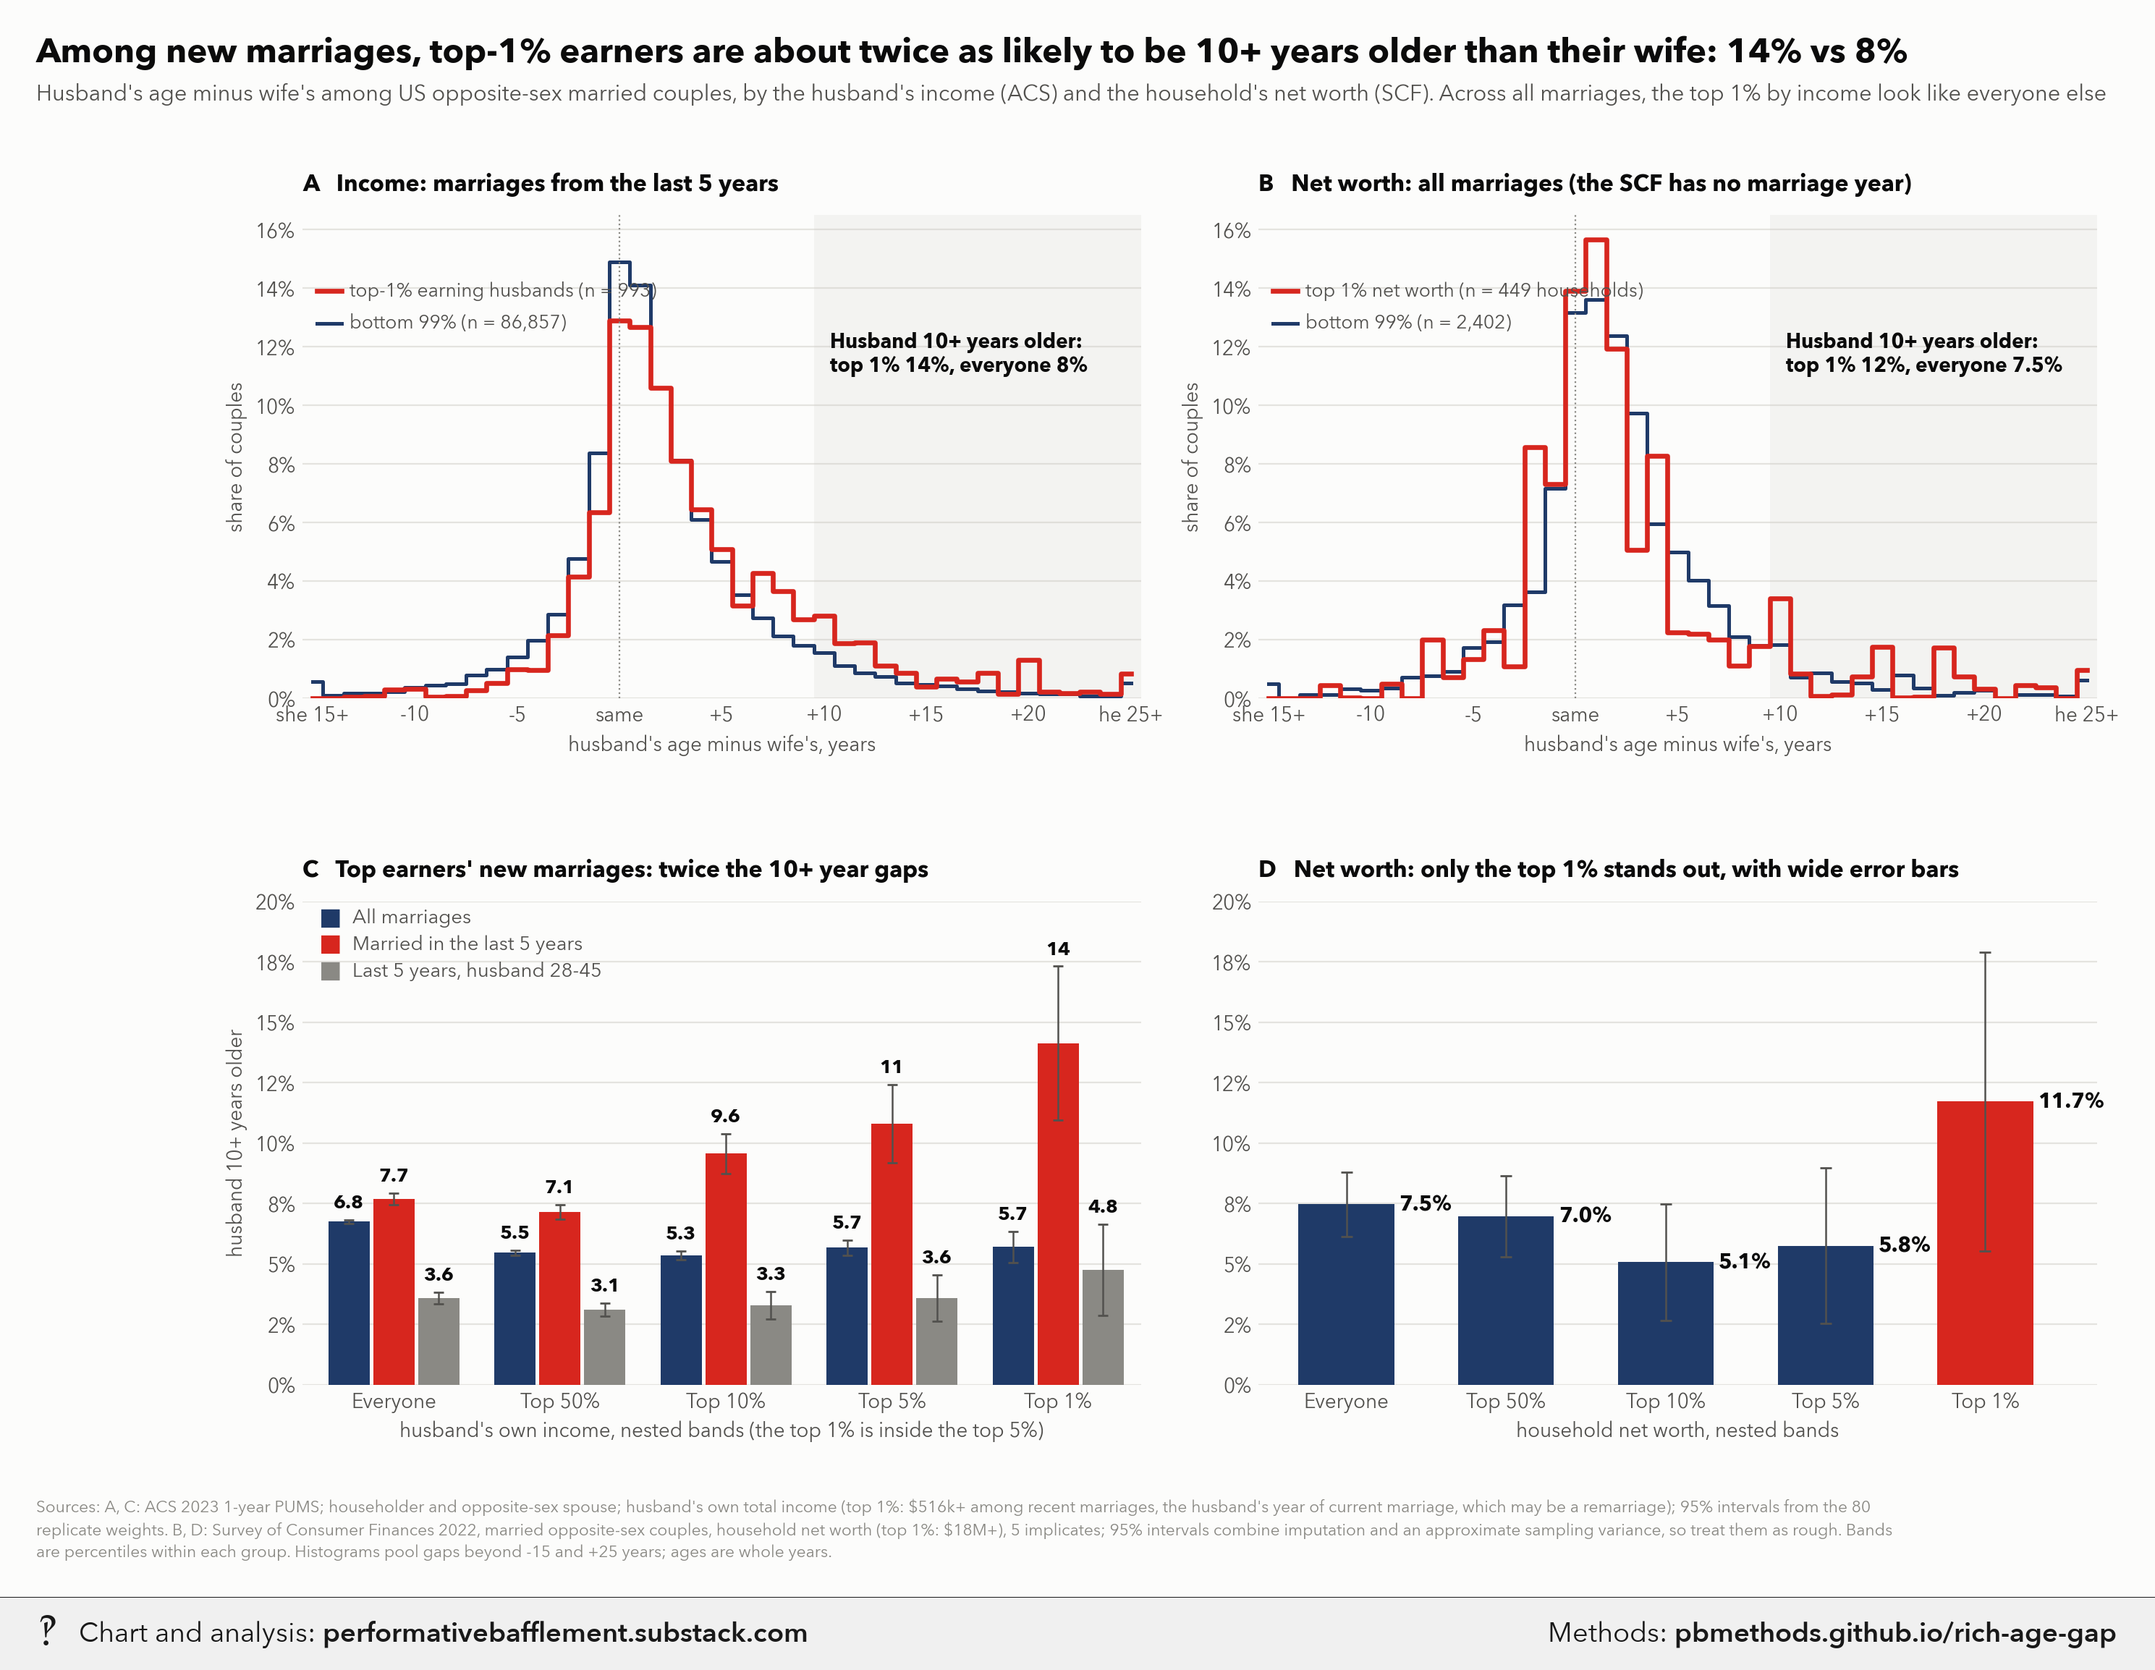
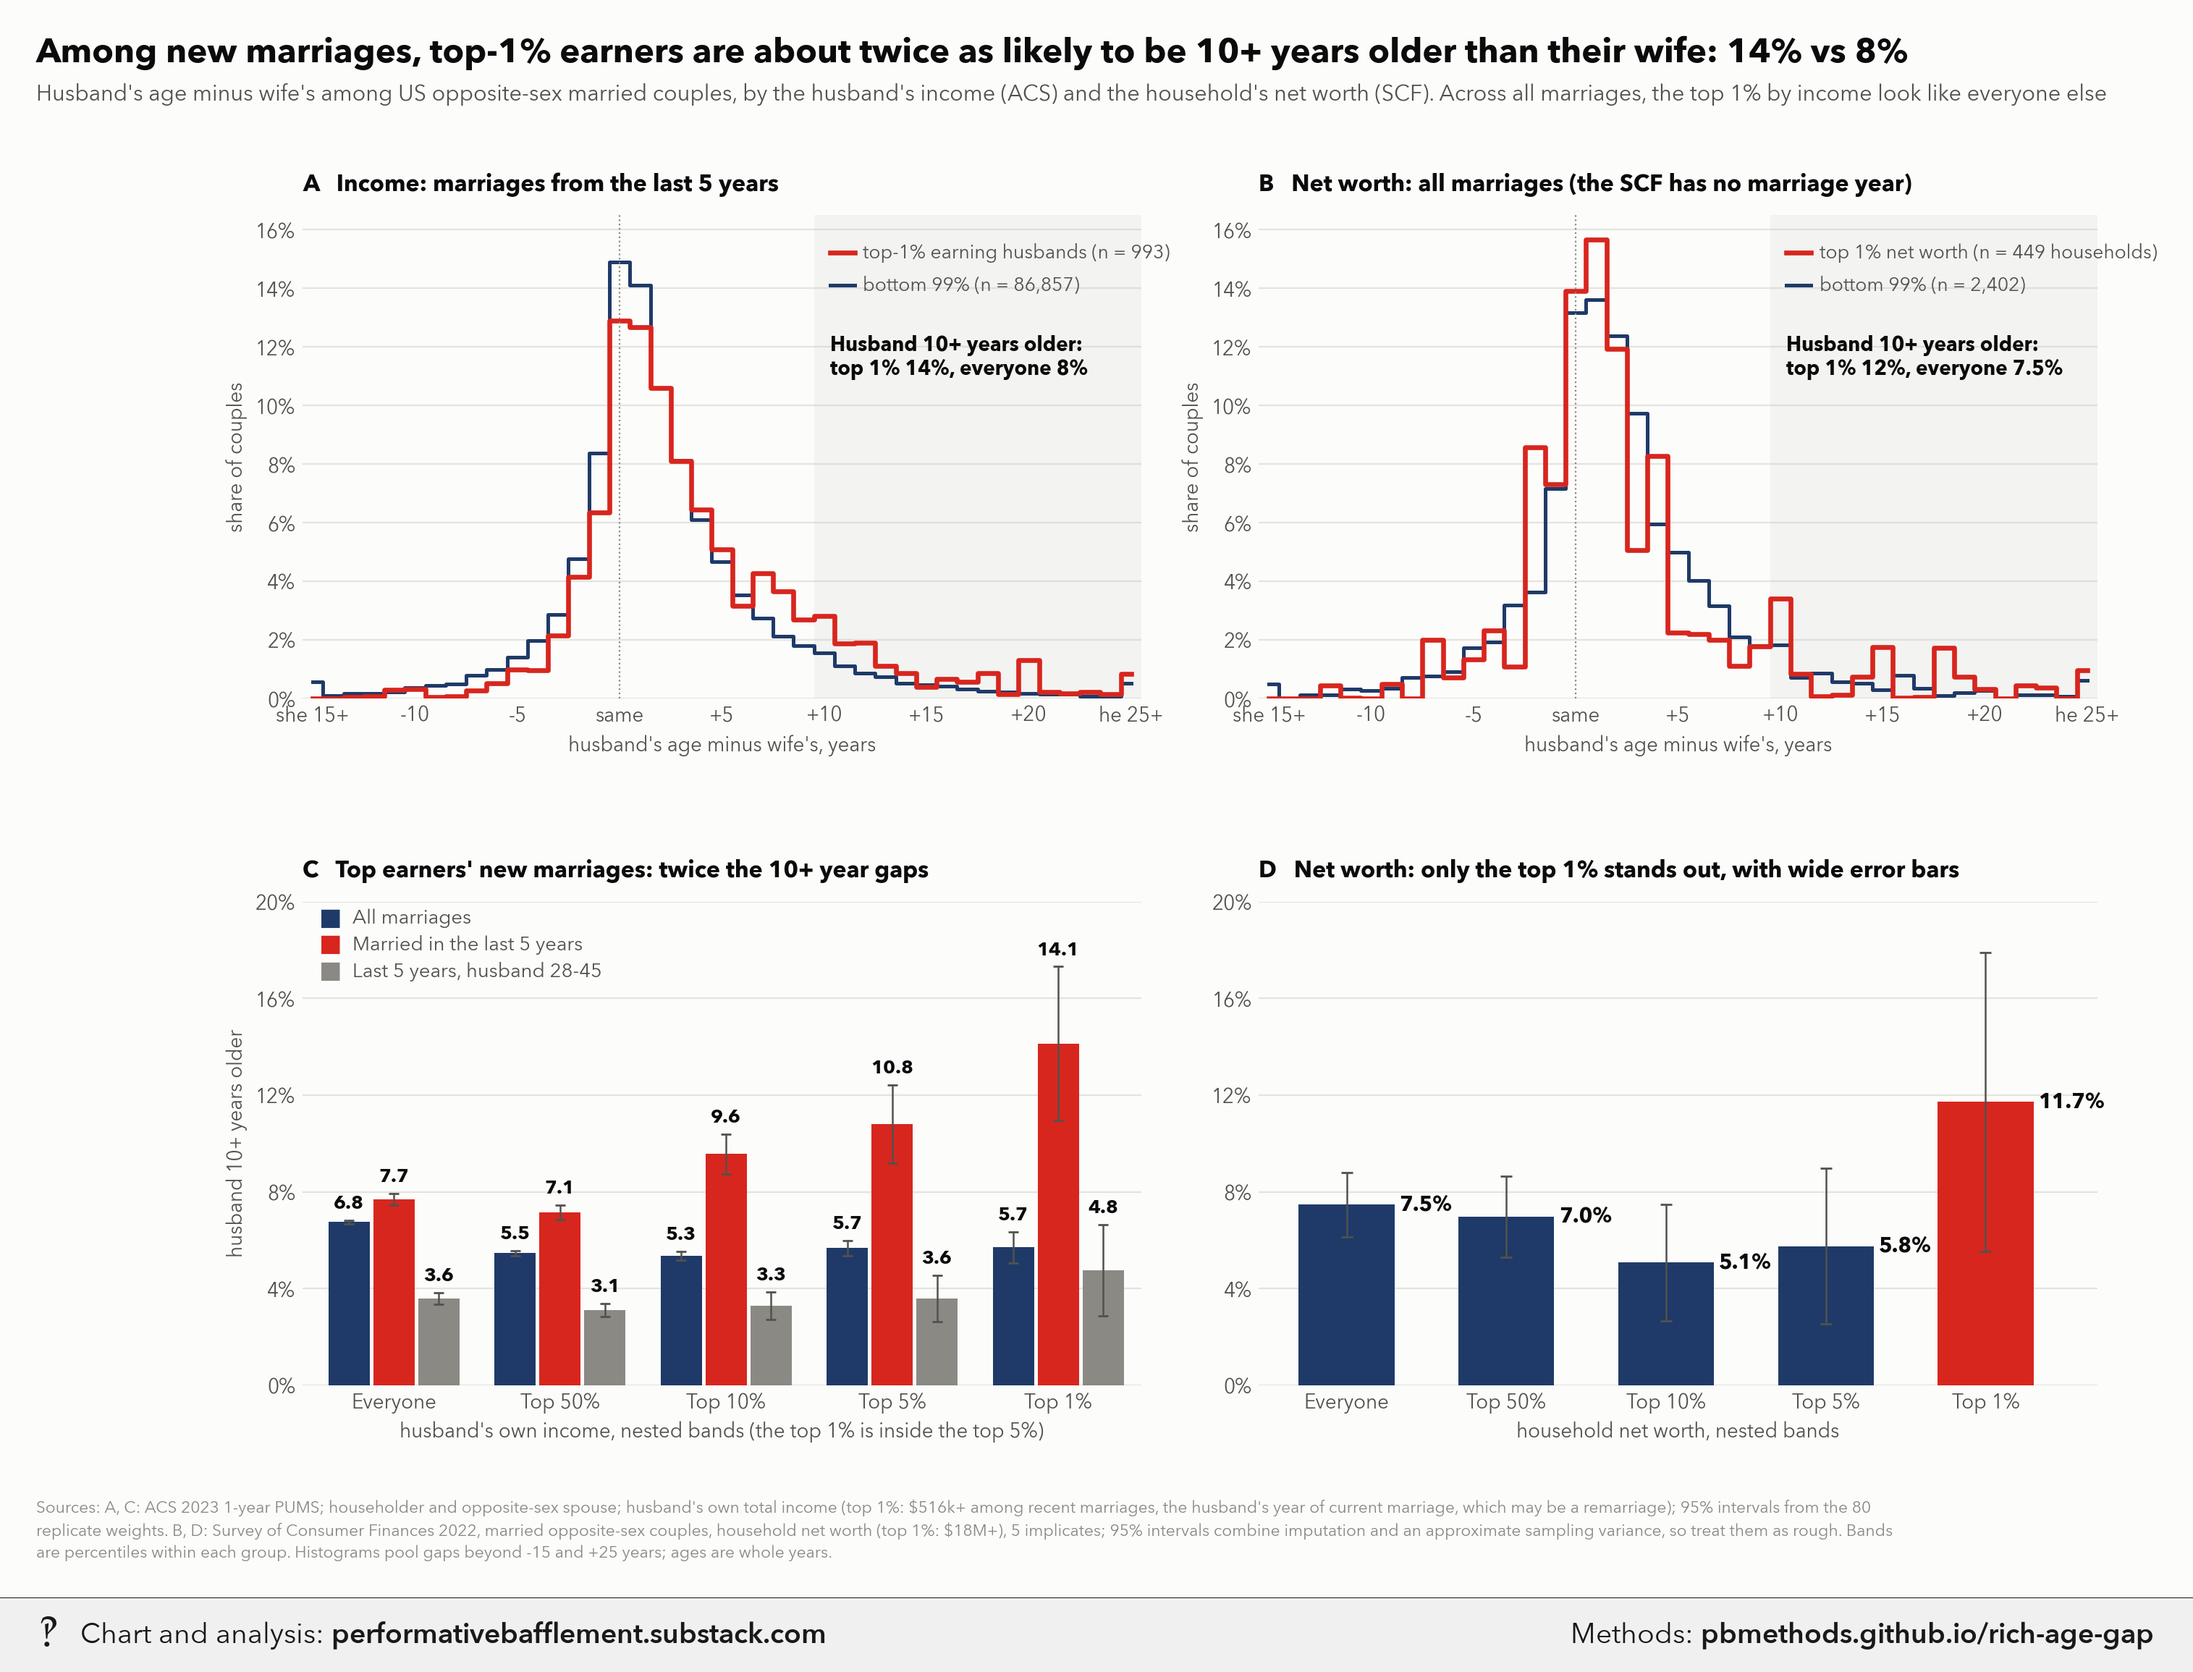
Update rich-age-gap

diff --git a/rich-age-gap/index.html b/rich-age-gap/index.html
@@ -852,24 +852,24 @@ def tenplus(src, set_, band):
 d = gap_hist(axs[0, 0], ACS, &quot;A&quot;, &quot;Income: marriages from the last 5 years&quot;, 0.165)
 nA = d.groupby(&quot;group&quot;).n_group.first()
 r1, rall = tenplus(ACS, &quot;Married in the last 5 years&quot;, &quot;top 1%&quot;), tenplus(ACS, &quot;Married in the last 5 years&quot;, &quot;all&quot;)
-axs[0, 0].text(10.3, 0.125, f&quot;Husband 10+ years older:\ntop 1% {r1.pct_10plus:.0f}%, everyone {rall.pct_10plus:.0f}%&quot;,
+axs[0, 0].text(10.3, 0.124, f&quot;Husband 10+ years older:\ntop 1% {r1.pct_10plus:.0f}%, everyone {rall.pct_10plus:.0f}%&quot;,
                fontsize=10, fontweight=&quot;bold&quot;, color=INK, va=&quot;top&quot;)
-axs[0, 0].plot([-14.8, -13.6], [0.139, 0.139], color=RED, lw=2.4)
-axs[0, 0].text(-13.2, 0.139, f&quot;top-1% earning husbands (n = {nA['Top 1%']:,})&quot;, fontsize=9.5, color=INK2,
+axs[0, 0].plot([10.3, 11.5], [0.152, 0.152], color=RED, lw=2.4)
+axs[0, 0].text(11.9, 0.152, f&quot;top-1% earning husbands (n = {nA['Top 1%']:,})&quot;, fontsize=9.5, color=INK2,
                va=&quot;center&quot;)
-axs[0, 0].plot([-14.8, -13.6], [0.128, 0.128], color=NAVY, lw=1.8)
-axs[0, 0].text(-13.2, 0.128, f&quot;bottom 99% (n = {nA['Bottom 99%']:,})&quot;, fontsize=9.5, color=INK2, va=&quot;center&quot;)
+axs[0, 0].plot([10.3, 11.5], [0.141, 0.141], color=NAVY, lw=1.8)
+axs[0, 0].text(11.9, 0.141, f&quot;bottom 99% (n = {nA['Bottom 99%']:,})&quot;, fontsize=9.5, color=INK2, va=&quot;center&quot;)
 
 d = gap_hist(axs[0, 1], SCF, &quot;B&quot;, &quot;Net worth: all marriages (the SCF has no marriage year)&quot;, 0.165)
 nB = d.groupby(&quot;group&quot;).n_group.first()
 s1, sall = tenplus(SCF, &quot;All married&quot;, &quot;top 1%&quot;), tenplus(SCF, &quot;All married&quot;, &quot;all&quot;)
-axs[0, 1].text(10.3, 0.125, f&quot;Husband 10+ years older:\ntop 1% {s1.pct_10plus:.0f}%, everyone {sall.pct_10plus:.1f}%&quot;,
+axs[0, 1].text(10.3, 0.124, f&quot;Husband 10+ years older:\ntop 1% {s1.pct_10plus:.0f}%, everyone {sall.pct_10plus:.1f}%&quot;,
                fontsize=10, fontweight=&quot;bold&quot;, color=INK, va=&quot;top&quot;)
-axs[0, 1].plot([-14.8, -13.6], [0.139, 0.139], color=RED, lw=2.4)
-axs[0, 1].text(-13.2, 0.139, f&quot;top 1% net worth (n = {nB['Top 1%']:,} households)&quot;, fontsize=9.5, color=INK2,
+axs[0, 1].plot([10.3, 11.5], [0.152, 0.152], color=RED, lw=2.4)
+axs[0, 1].text(11.9, 0.152, f&quot;top 1% net worth (n = {nB['Top 1%']:,} households)&quot;, fontsize=9.5, color=INK2,
                va=&quot;center&quot;)
-axs[0, 1].plot([-14.8, -13.6], [0.128, 0.128], color=NAVY, lw=1.8)
-axs[0, 1].text(-13.2, 0.128, f&quot;bottom 99% (n = {nB['Bottom 99%']:,})&quot;, fontsize=9.5, color=INK2, va=&quot;center&quot;)
+axs[0, 1].plot([10.3, 11.5], [0.141, 0.141], color=NAVY, lw=1.8)
+axs[0, 1].text(11.9, 0.141, f&quot;bottom 99% (n = {nB['Bottom 99%']:,})&quot;, fontsize=9.5, color=INK2, va=&quot;center&quot;)
 
 # ---------------------------------------------------------------- C: income bands
 ax = axs[1, 0]
@@ -882,11 +882,11 @@ for i, (key, lab, c) in enumerate(SETS):
     ax.bar(pos, t.pct_10plus, wd * 0.92, color=c)
     ax.errorbar(pos, t.pct_10plus, yerr=1.96 * t.se, fmt=&quot;none&quot;, ecolor=INK2, elinewidth=0.9, capsize=2.5)
     for p_, v_, e_ in zip(pos, t.pct_10plus, t.se):
-        ax.text(p_, v_ + 1.96 * e_ + 0.3, f&quot;{v_:.0f}&quot; if v_ &gt;= 9.95 else f&quot;{v_:.1f}&quot;, ha=&quot;center&quot;, va=&quot;bottom&quot;,
+        ax.text(p_, v_ + 1.96 * e_ + 0.3, f&quot;{v_:.1f}&quot;, ha=&quot;center&quot;, va=&quot;bottom&quot;,
                 fontsize=9.5, fontweight=&quot;bold&quot;, color=INK)
     ax.text(-0.45, 19.3 - 1.1 * i, &quot;■&quot;, color=c, fontsize=12, va=&quot;center&quot;)
     ax.text(-0.25, 19.3 - 1.1 * i, lab, color=INK2, fontsize=9.8, va=&quot;center&quot;)
-ax.set_xticks(x, BLAB); ax.set_xlim(-0.55, 4.5); ax.set_ylim(0, 20)
+ax.set_xticks(x, BLAB); ax.set_xlim(-0.55, 4.5); ax.set_ylim(0, 20); ax.set_yticks([0, 4, 8, 12, 16, 20])
 ax.yaxis.set_major_formatter(plt.FuncFormatter(lambda v, _: f&quot;{v:.0f}%&quot;))
 ax.set_xlabel(&quot;husband's own income, nested bands (the top 1% is inside the top 5%)&quot;)
 ax.set_ylabel(&quot;husband 10+ years older&quot;); ax.grid(axis=&quot;x&quot;, visible=False)
@@ -900,7 +900,7 @@ ax.bar(x, t.pct_10plus, 0.6, color=[NAVY] * 4 + [RED])
 ax.errorbar(x, t.pct_10plus, yerr=1.96 * t.se, fmt=&quot;none&quot;, ecolor=INK2, elinewidth=0.9, capsize=3)
 for p_, v_, e_ in zip(x, t.pct_10plus, t.se):
     ax.text(p_ + 0.33, v_, f&quot;{v_:.1f}%&quot;, ha=&quot;left&quot;, va=&quot;center&quot;, fontsize=10.5, fontweight=&quot;bold&quot;, color=INK)
-ax.set_xticks(x, BLAB); ax.set_xlim(-0.55, 4.7); ax.set_ylim(0, 20)
+ax.set_xticks(x, BLAB); ax.set_xlim(-0.55, 4.7); ax.set_ylim(0, 20); ax.set_yticks([0, 4, 8, 12, 16, 20])
 ax.yaxis.set_major_formatter(plt.FuncFormatter(lambda v, _: f&quot;{v:.0f}%&quot;))
 ax.set_xlabel(&quot;household net worth, nested bands&quot;); ax.grid(axis=&quot;x&quot;, visible=False)
 ax.set_title(&quot;D   Net worth: only the top 1% stands out, with wide error bars&quot;, loc=&quot;left&quot;, fontsize=11.5,

diff --git a/index.html b/index.html
@@ -24,8 +24,8 @@ li{margin:.2rem 0}
 <h1>Performative Bafflement: chart methods</h1>
 <p>Methodology, results and code behind charts from <a href="https://performativebafflement.substack.com/">Performative Bafflement</a>. Each page has a plain-text <code>methods.md</code> for AI fact-checking.</p>
 <ul>
-<li><a href="sex-dynamics/">The master post of sexual and relationship dynamics: looks, money, height, paying for sex, marriage, porn and wanting more</a> (2026-11-15)</li>
 <li><a href="rich-age-gap/">Do rich men marry much younger women? The husband-wife age gap by income and net worth</a> (2026-11-15)</li>
+<li><a href="sex-dynamics/">The master post of sexual and relationship dynamics: looks, money, height, paying for sex, marriage, porn and wanting more</a> (2026-11-15)</li>
 <li><a href="marriage-age-gap/">The husband-wife age gap at marriage, US 1940-2024, by the wife's age at marriage</a> (2026-11-14)</li>
 <li><a href="lifestyle-risk/">Obese, sedentary, bad diet, smoking: all-cause death-rate multipliers at ages 40+</a> (2026-11-11)</li>
 <li><a href="spam-calls/">US spam calls vs the world, and what share of your calls are spam</a> (2026-11-11)</li>

diff --git a/rich-age-gap/methods.md b/rich-age-gap/methods.md
@@ -337,24 +337,24 @@ def tenplus(src, set_, band):
 d = gap_hist(axs[0, 0], ACS, "A", "Income: marriages from the last 5 years", 0.165)
 nA = d.groupby("group").n_group.first()
 r1, rall = tenplus(ACS, "Married in the last 5 years", "top 1%"), tenplus(ACS, "Married in the last 5 years", "all")
-axs[0, 0].text(10.3, 0.125, f"Husband 10+ years older:\ntop 1% {r1.pct_10plus:.0f}%, everyone {rall.pct_10plus:.0f}%",
+axs[0, 0].text(10.3, 0.124, f"Husband 10+ years older:\ntop 1% {r1.pct_10plus:.0f}%, everyone {rall.pct_10plus:.0f}%",
                fontsize=10, fontweight="bold", color=INK, va="top")
-axs[0, 0].plot([-14.8, -13.6], [0.139, 0.139], color=RED, lw=2.4)
-axs[0, 0].text(-13.2, 0.139, f"top-1% earning husbands (n = {nA['Top 1%']:,})", fontsize=9.5, color=INK2,
+axs[0, 0].plot([10.3, 11.5], [0.152, 0.152], color=RED, lw=2.4)
+axs[0, 0].text(11.9, 0.152, f"top-1% earning husbands (n = {nA['Top 1%']:,})", fontsize=9.5, color=INK2,
                va="center")
-axs[0, 0].plot([-14.8, -13.6], [0.128, 0.128], color=NAVY, lw=1.8)
-axs[0, 0].text(-13.2, 0.128, f"bottom 99% (n = {nA['Bottom 99%']:,})", fontsize=9.5, color=INK2, va="center")
+axs[0, 0].plot([10.3, 11.5], [0.141, 0.141], color=NAVY, lw=1.8)
+axs[0, 0].text(11.9, 0.141, f"bottom 99% (n = {nA['Bottom 99%']:,})", fontsize=9.5, color=INK2, va="center")
 
 d = gap_hist(axs[0, 1], SCF, "B", "Net worth: all marriages (the SCF has no marriage year)", 0.165)
 nB = d.groupby("group").n_group.first()
 s1, sall = tenplus(SCF, "All married", "top 1%"), tenplus(SCF, "All married", "all")
-axs[0, 1].text(10.3, 0.125, f"Husband 10+ years older:\ntop 1% {s1.pct_10plus:.0f}%, everyone {sall.pct_10plus:.1f}%",
+axs[0, 1].text(10.3, 0.124, f"Husband 10+ years older:\ntop 1% {s1.pct_10plus:.0f}%, everyone {sall.pct_10plus:.1f}%",
                fontsize=10, fontweight="bold", color=INK, va="top")
-axs[0, 1].plot([-14.8, -13.6], [0.139, 0.139], color=RED, lw=2.4)
-axs[0, 1].text(-13.2, 0.139, f"top 1% net worth (n = {nB['Top 1%']:,} households)", fontsize=9.5, color=INK2,
+axs[0, 1].plot([10.3, 11.5], [0.152, 0.152], color=RED, lw=2.4)
+axs[0, 1].text(11.9, 0.152, f"top 1% net worth (n = {nB['Top 1%']:,} households)", fontsize=9.5, color=INK2,
                va="center")
-axs[0, 1].plot([-14.8, -13.6], [0.128, 0.128], color=NAVY, lw=1.8)
-axs[0, 1].text(-13.2, 0.128, f"bottom 99% (n = {nB['Bottom 99%']:,})", fontsize=9.5, color=INK2, va="center")
+axs[0, 1].plot([10.3, 11.5], [0.141, 0.141], color=NAVY, lw=1.8)
+axs[0, 1].text(11.9, 0.141, f"bottom 99% (n = {nB['Bottom 99%']:,})", fontsize=9.5, color=INK2, va="center")
 
 # ---------------------------------------------------------------- C: income bands
 ax = axs[1, 0]
@@ -367,11 +367,11 @@ for i, (key, lab, c) in enumerate(SETS):
     ax.bar(pos, t.pct_10plus, wd * 0.92, color=c)
     ax.errorbar(pos, t.pct_10plus, yerr=1.96 * t.se, fmt="none", ecolor=INK2, elinewidth=0.9, capsize=2.5)
     for p_, v_, e_ in zip(pos, t.pct_10plus, t.se):
-        ax.text(p_, v_ + 1.96 * e_ + 0.3, f"{v_:.0f}" if v_ >= 9.95 else f"{v_:.1f}", ha="center", va="bottom",
+        ax.text(p_, v_ + 1.96 * e_ + 0.3, f"{v_:.1f}", ha="center", va="bottom",
                 fontsize=9.5, fontweight="bold", color=INK)
     ax.text(-0.45, 19.3 - 1.1 * i, "■", color=c, fontsize=12, va="center")
     ax.text(-0.25, 19.3 - 1.1 * i, lab, color=INK2, fontsize=9.8, va="center")
-ax.set_xticks(x, BLAB); ax.set_xlim(-0.55, 4.5); ax.set_ylim(0, 20)
+ax.set_xticks(x, BLAB); ax.set_xlim(-0.55, 4.5); ax.set_ylim(0, 20); ax.set_yticks([0, 4, 8, 12, 16, 20])
 ax.yaxis.set_major_formatter(plt.FuncFormatter(lambda v, _: f"{v:.0f}%"))
 ax.set_xlabel("husband's own income, nested bands (the top 1% is inside the top 5%)")
 ax.set_ylabel("husband 10+ years older"); ax.grid(axis="x", visible=False)
@@ -385,7 +385,7 @@ ax.bar(x, t.pct_10plus, 0.6, color=[NAVY] * 4 + [RED])
 ax.errorbar(x, t.pct_10plus, yerr=1.96 * t.se, fmt="none", ecolor=INK2, elinewidth=0.9, capsize=3)
 for p_, v_, e_ in zip(x, t.pct_10plus, t.se):
     ax.text(p_ + 0.33, v_, f"{v_:.1f}%", ha="left", va="center", fontsize=10.5, fontweight="bold", color=INK)
-ax.set_xticks(x, BLAB); ax.set_xlim(-0.55, 4.7); ax.set_ylim(0, 20)
+ax.set_xticks(x, BLAB); ax.set_xlim(-0.55, 4.7); ax.set_ylim(0, 20); ax.set_yticks([0, 4, 8, 12, 16, 20])
 ax.yaxis.set_major_formatter(plt.FuncFormatter(lambda v, _: f"{v:.0f}%"))
 ax.set_xlabel("household net worth, nested bands"); ax.grid(axis="x", visible=False)
 ax.set_title("D   Net worth: only the top 1% stands out, with wide error bars", loc="left", fontsize=11.5,

diff --git a/index.md b/index.md
@@ -2,8 +2,8 @@
 
 Methodology, results and code behind charts from <a href="https://performativebafflement.substack.com/">Performative Bafflement</a>. Each page has a plain-text `methods.md` for AI fact-checking.
 
-- [The master post of sexual and relationship dynamics: looks, money, height, paying for sex, marriage, porn and wanting more](sex-dynamics/) (2026-11-15)
 - [Do rich men marry much younger women? The husband-wife age gap by income and net worth](rich-age-gap/) (2026-11-15)
+- [The master post of sexual and relationship dynamics: looks, money, height, paying for sex, marriage, porn and wanting more](sex-dynamics/) (2026-11-15)
 - [The husband-wife age gap at marriage, US 1940-2024, by the wife's age at marriage](marriage-age-gap/) (2026-11-14)
 - [Obese, sedentary, bad diet, smoking: all-cause death-rate multipliers at ages 40+](lifestyle-risk/) (2026-11-11)
 - [US spam calls vs the world, and what share of your calls are spam](spam-calls/) (2026-11-11)
